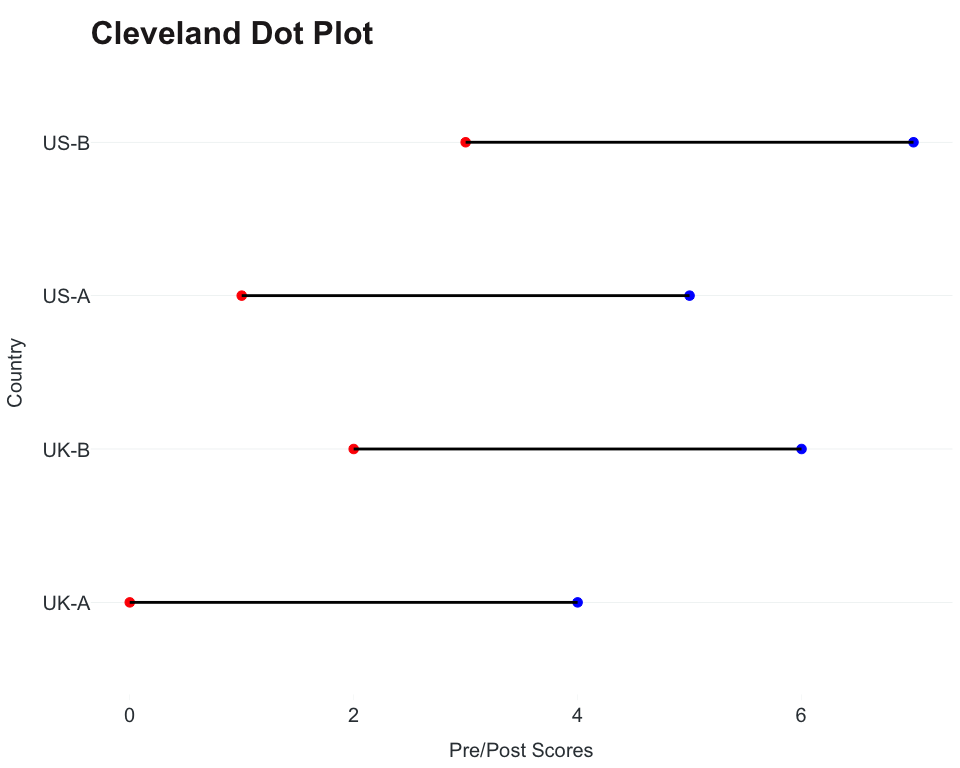
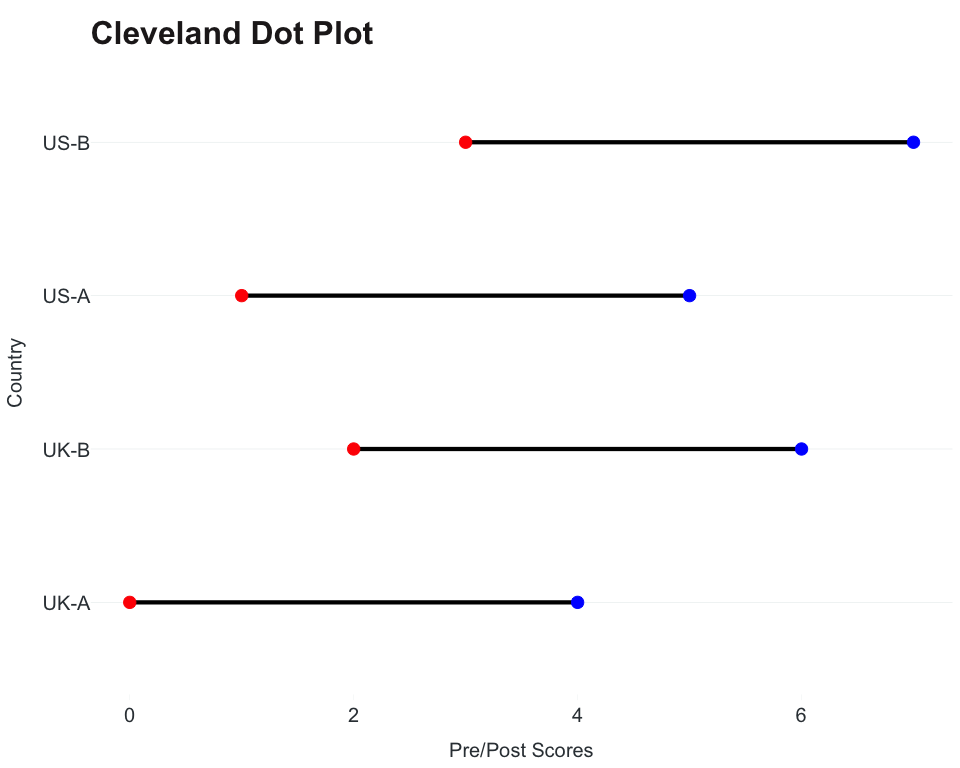
geom_cleveland, lollipop order

diff --git a/vignettes/extending-ggplot2.md b/vignettes/extending-ggplot2.md
@@ -138,12 +138,12 @@ Cleveland dot plot, also called dumbbell plots, consist of two points
 connected by a solid line. Useful in showing changes in pre/post test
 scores or timelines. Dataset requires two x variables (x and xend), y
 variable (character/factor). Speciy within `geom_cleveland`: point
-colours (colour_x and colour_xend), line thickness (linewidth), and
-point size (size_x).
+colors (colour_x and colour_xend), line thickness (linewidth), line
+color (colour), and point size (size).
 
 ``` r
 ggplot(data = cleveland, aes(x = PRE, xend = POST, y = Country)) +
-  geom_cleveland(colour_x = "red", colour_xend = "blue") +
+  geom_cleveland(colour_x = "red", colour_xend = "blue", size = 4, linewidth = 1.5, colour = "black") +
   labs(title = "Cleveland Dot Plot", x = "Pre/Post Scores", y = "Country") +
   theme_apollo(direction = "vertical")
 ```
